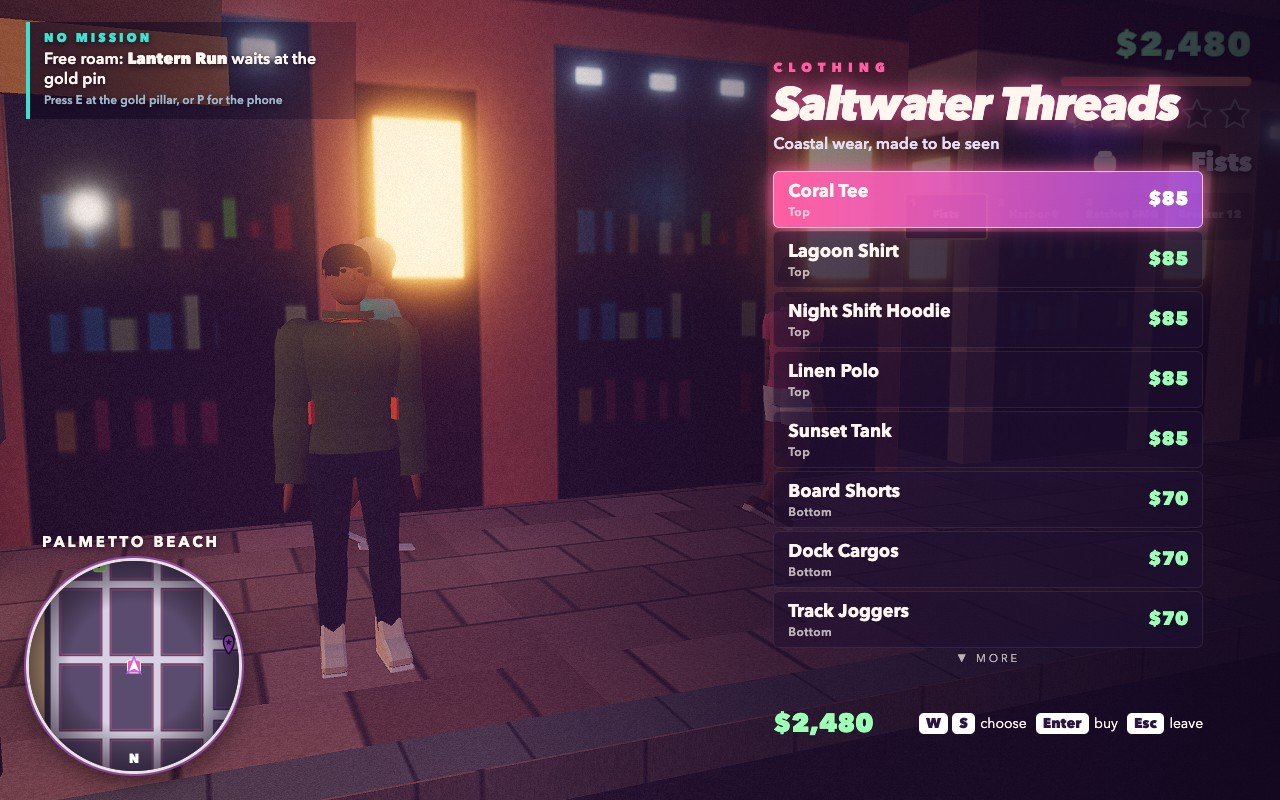
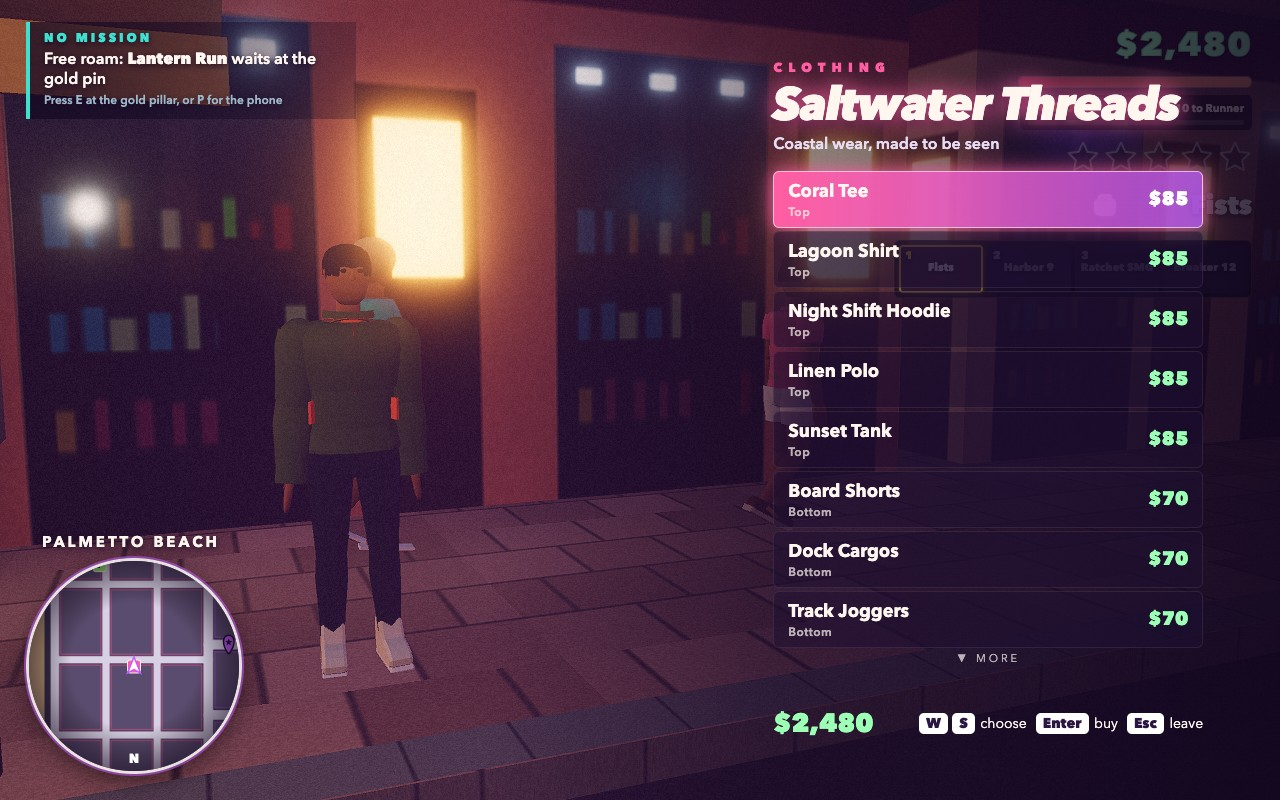
style(hud): the weapon bar sits on one dark tray clear of the stars, gold slot numbers, white names, green ammo, Stowed as a side tag; the cover sets health 72, armour 58 and 128 respect so health, armour and the Harbour Name rank bar show; the cover check now also requires the rank and armour bars;

diff --git a/game/src/ui/hudpolice.css b/game/src/ui/hudpolice.css
@@ -83,49 +83,63 @@
 @keyframes dispatch-blink { 50% { opacity: 0.25; } }
 
 /* Weapon bar */
-#hud .weaponbar { display: flex; justify-content: flex-end; gap: 4px; margin-top: 8px; }
-/* In a car: the loadout stays visible but stowed, a little smaller and dimmer, with a small label. */
-#hud .weaponbar.stowed { position: relative; margin-top: 18px; filter: saturate(0.75); }
+/* One dark tray behind all four slots, clear of the stars above it, so it reads over sky, glass or sunlit walls. */
+#hud .weaponbar {
+  display: flex;
+  justify-content: flex-end;
+  align-items: stretch;
+  gap: 4px;
+  width: max-content;
+  margin: 12px 0 0 auto;
+  padding: 4px;
+  border-radius: 6px;
+  background: rgba(10, 5, 22, 0.78);
+  border: 1px solid rgba(255, 255, 255, 0.16);
+}
+/* In a car the loadout stays up as it will be on foot, tagged Stowed at the tray's left end, not above it. */
 #hud .weaponbar.stowed::before {
   content: 'Stowed';
-  position: absolute;
-  top: -15px;
-  right: 2px;
+  align-self: center;
+  padding: 0 5px 0 3px;
   font-size: 10px;
   font-weight: 800;
-  letter-spacing: 2px;
+  letter-spacing: 1.5px;
   text-transform: uppercase;
-  opacity: 0.7;
+  color: #cfc4e8;
+  writing-mode: vertical-rl;
+  transform: rotate(180deg);
 }
-#hud .weaponbar.stowed .wslot.owned { opacity: 0.72; }
 #hud .wslot {
   position: relative;
   width: 74px;
   /* The slot number gets its own top row, so it never sits on a long name. */
-  padding: 12px 3px 3px;
+  padding: 13px 3px 3px;
   border-radius: 4px;
-  background: rgba(14, 8, 30, 0.64);
+  background: rgba(40, 26, 64, 0.82);
   border: 2px solid transparent;
   text-align: center;
-  opacity: 0.38;
+  color: #8f86a6;
 }
-#hud .wslot.owned { opacity: 0.9; }
+#hud .wslot.owned { color: #ffffff; }
 #hud .wslot.current {
-  opacity: 1;
   border-color: var(--mc-gold, #ffc94a);
-  background: rgba(40, 18, 50, 0.75);
+  background: rgba(84, 46, 70, 0.92);
+  box-shadow: 0 0 8px rgba(255, 201, 74, 0.45);
 }
 #hud .wslot kbd {
   position: absolute;
   top: 1px;
   left: 4px;
-  font-size: 10px;
+  font-size: 11px;
   font-weight: 800;
   font-family: inherit;
   color: var(--mc-gold, #ffc94a);
 }
+#hud .wslot:not(.owned) kbd { color: #8f86a6; }
 #hud .wslot .wname { display: block; font-size: 11px; font-weight: 800; white-space: nowrap; overflow: hidden; }
-#hud .wslot .wammo { display: block; min-height: 13px; font-size: 11px; font-variant-numeric: tabular-nums; }
+#hud .wslot .wammo {
+  display: block; min-height: 13px; font-size: 11px; font-weight: 700; color: #9dffb5; font-variant-numeric: tabular-nums;
+}
 #hud .wslot.dry .wammo { color: #ff6b7a; }
 
 /* Small windows (the 768x480 cover): tighter type so the column clears the minimap. */

diff --git a/game/src/shotsaction.js b/game/src/shotsaction.js
@@ -116,6 +116,9 @@ export const ACTION_SHOTS = {
       arsenal.owned.pistol = { clip: 12, reserve: 36 };
       arsenal.owned.smg = { clip: 24, reserve: 96 };
       arsenal.current = 'smg';
+      // Four missions in: a Harbour Name with some respect toward Tide Caller, scraped but still in a vest.
+      Object.assign(game.player.state.vitals, { health: 72, armour: 58 });
+      game.missions.progress.respect = 128;
       game.player.state.vehicle.vz = -COVER.speed;
       game.player.state.autopilot = laneKeeper(game, COVER.laneX, Math.PI, 0.62);
       police.setStars(4);
